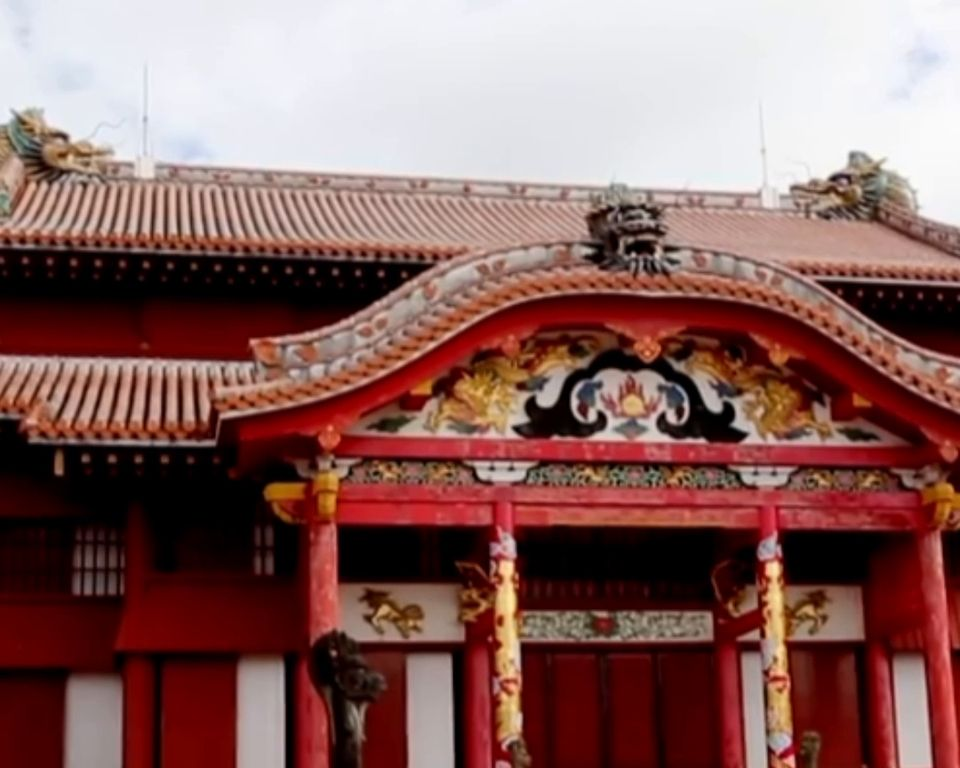
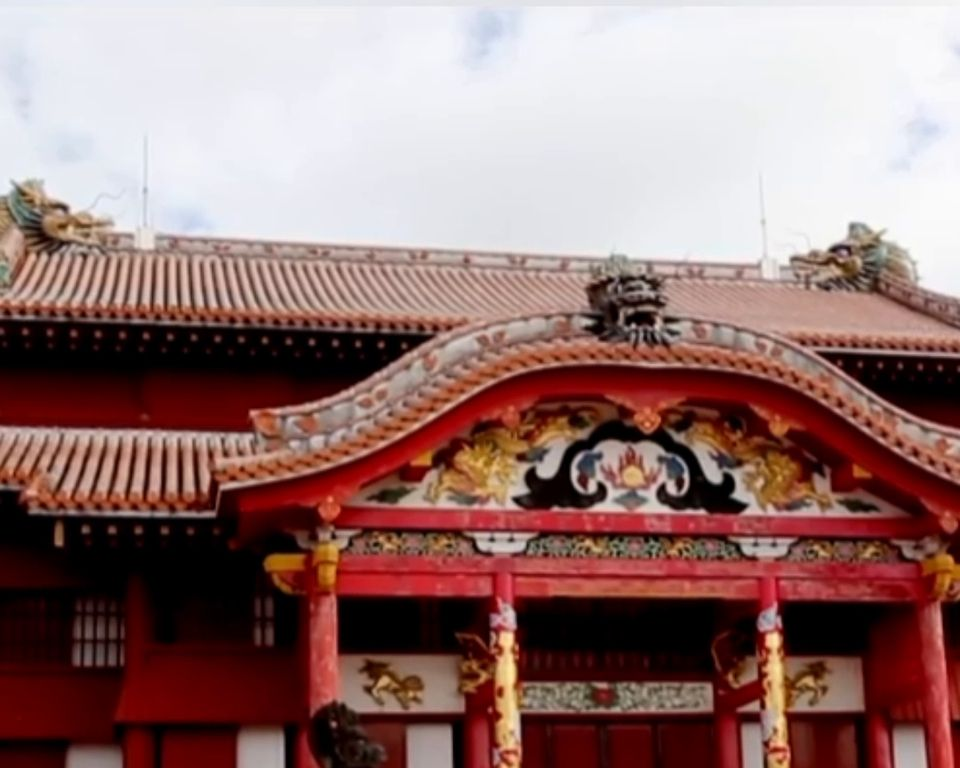
Live : la carte reste en plein jour (midi au Japon) pendant le live. Images du jeu : 15 images recadrées depuis la même image de la vidéo pour bien montrer le lieu (robot de Ghibli, torii de Hakone, jizō d'Osorezan, mare rouge de Beppu…).

diff --git a/site/ambiance.js b/site/ambiance.js
@@ -85,7 +85,9 @@ const dateJapon = (annee, mois, jour, heure, minute) => new Date(Date.UTC(annee,
 /** Le moment fixé par l'adresse pour les essais (?heure=21:30, ?date=2026-04-05, ?mois=4), sinon maintenant. */
 function lireMoment() {
   const p = new URLSearchParams(location.search);
-  const heure = p.get('heure')?.match(/^(\d{1,2})[:h.]?(\d{2})?$/);
+  // Le live (…/?live, live.js) est toujours en plein jour, midi au Japon : on voit mieux la carte (le propriétaire,
+  // 2026-11-23). La saison et les décorations du jour restent.
+  const heure = (p.get('heure') || (p.has('live') ? '12:00' : null))?.match(/^(\d{1,2})[:h.]?(\d{2})?$/);
   const date = p.get('date')?.match(/^(\d{4})-(\d{2})-(\d{2})$/);
   const mois = Number(p.get('mois'));
   return {

diff --git a/instructions/carte.md b/instructions/carte.md
@@ -32,6 +32,11 @@ Everything about the map itself: the site in `site/` (but the 3D walk, `site/bal
 - `python outils/couvertures_montage.py`: since 2026-10-20 TikTok gives no cover any more (oEmbed has no `thumbnail_url`, its embed page answers 429), so new places had a blank card. A TikTok cover is just one frame of the video, centre-cropped to 3:4 across the full width (checked: Ena Gorge's is the frame at 14 s of the owner's file, Naegi's at 15 s; the owner picks it in the app, mid-ranked on any measure, so it can't be guessed). For each place without a cover, the script finds its video in the owner's montage folder (`VIDEOS_LIEUX`, as `tourner.py`; `.mp4`/`.mov`; same name as `Nom (EN)` without accents, case or punctuation, else the only file name contained in the other, among files no other place claims: recent files are named like the Sheet, half of the old ones are not), picks the best frame after the first 4.5 s (Google Earth dive) by sharpness, colourfulness, exposure and stillness, leaving out shots whose colour histogram is far from the rest of the video (`A_PART`: Lake Kagami's video has a Mount Fuji shot that scored first), saves it like a TikTok cover (540 × 720) and notes it in `site/data/couvertures-montage.json`. By hand: `"Lake Kagami=31.5"` (that frame), `"Udo Inari Shrine=Inari shrine.mp4@12"` (that file); a contact sheet of the 6 best frames goes to the system temp folder; then commit and push. Needs Pillow, numpy and ffmpeg (imageio-ffmpeg here).
   - **Automatic (asked by the owner on 2026-10-20).** The videos are only on this PC, so a Windows scheduled task, **« Vignettes carte Japon »** (current user, at logon and every 30 min, `pythonw`, no window), runs `couvertures_montage.py --publier` in a separate clone, `D:\Business\Claude Code\Maps Japon - vignettes auto\depot` (blobless clone, marked by `.git/vignettes-auto`: `--publier` refuses to run elsewhere, because it resets the clone to `origin/main` first). It refreshes the backup CSVs, makes the missing covers (skipping a video modified in the last 10 min: still exporting) and the ones the owner asks for in `Vignettes.txt` in the montage folder (`Name = seconds` or `Name = file @ seconds`; marked `main` in the JSON, applied once, never replaced by the nightly TikTok retry), commits « Vignettes : … », pushes (on rejection: fetch, rebase, push again) and shows a Windows notification. A recent place (video under 14 days) with no matching file gets one notification. Log: `journal-vignettes.txt` beside the clone; notified places: `etat-vignettes.json`. **Never put files the task needs under `AppData`:** the Claude desktop app is a packaged (MSIX) app, so what its tools write under `AppData` goes to the package's private copy, invisible to Task Scheduler (the first clone in `%LOCALAPPDATA%` gave 0x8007010B, then exit 2), and `imageio-ffmpeg` had been pip-installed there too (it was reinstalled for the real user from a one-off scheduled task). D: is not redirected. To test what the task sees, register a throwaway task running a diagnostic script, then unregister it. Tested against a local bare remote (missing cover, `Vignettes.txt`, a concurrent push). The clone updates its own script at each pass. To stop it: `Unregister-ScheduledTask "Vignettes carte Japon"`. **A pass cut off mid-git leaves a lock.** From 2026-11-13 13:22 to 2026-11-19 a stale `.git/index.lock` in the clone (a pass stopped dead, PC shut down) made every pass fail (« index.lock: File exists ») without a word, so the videos of that week got no cover and no game image; the owner noticed on a card. Since then `retirer_verrous` deletes any `.git/*.lock` or `.git/refs/**/*.lock` older than 10 minutes before starting (safe: the task is `IgnoreNew`, never two passes at once, and Task Scheduler stops a pass after 20 minutes), and when passes have failed for over 3 hours a notification says so, once per outage (`panne`, `panneSignalee` in `etat-vignettes.json`).
   - **Game images, automatic too (asked by the owner on 2026-11-09: « automatiser ça à chaque fois que je poste une nouvelle vidéo », so that every place is in the game and the daily challenge).** After the covers, the same task gives every place on the map whose game image is not yet a frame of its video such a frame (`images_du_jeu`; a Sheet photo stays on the place's card, `avantTableau` puts the frame first in the game). `cadres_du_jeu` reads the video at 2 fps past the dive, drops shots off the video's palette (`images_valables`, as for covers) and scores each frame with `note` in three 5:4 windows (1080 × 864, top at 400, 550 or 700 of 1920: the name label of the recent videos sits at top left from start to end and ends near y = 320). The 8 best, 2 s apart, go through Windows' built-in OCR (WinRT through PowerShell, `OCR_WINDOWS`, `en-US`, nothing to install; it also works from the scheduled task): the first with no word of 4 letters or more wins (on textures the OCR invents « Wm » or « .41 »). At full size the OCR does not read big titles: `versions_a_lire` also gives it the frame at half size and its white alone (11 titles it had missed were all read, no false alarm on 12 clean frames). It reads the label and the titles typed in the older videos, but not Japanese (no `ja-JP` OCR pack on this PC), so a kanji sign can stay in the frame. It judges looks, not meaning: on 24 known videos every pick was usable, but Takeda Castle got a fine stone wall rather than a wide view. Saved as `photos/jeu/<video id>.jpg` (960 px), noted `{fichier, maVideo: true, ajoute: <UTC date>}` in `photos-jeu.json`; the notification reads « image ajoutée au jeu ». If `photos_jeu.py` got there first (PC off), its Wikidata photo (`wikidata: true`) is replaced at the next pass, like any image not marked `maVideo` once the place's video is found. An entry marked `maVideo` is never touched: to make one again, delete its JSON entry and its JPEG in the repo. Tested from a throwaway scheduled task on a clone wired to a local bare repo: a place with no image, a provisional one, a second pass that does nothing (the session's `preparer_essai.py`).
+    - **Re-centred by hand, 2026-11-23.** The owner, watching the live, found « pas mal d'images mal centrées » where the place could not be seen well. The fixed windows (400, 550 or 700) often cut the subject: the Ghibli robot's head, Osorezan's jizō, Hakone's torii, Beppu's red pond…
+    - **How.** Each `maVideo` frame was extracted whole (9:16, at the instant noted in `fichier`), and its current window was found by comparing images. Contact sheets of all 168 showed the window in red. For the bad ones, windows were tried at tops 0 to 1056, and 15 were re-cut from the same instant at a better top.
+    - **Checks.** The same OCR (`textes_lus`, `versions_a_lire`) found no word in any new window, while it read the label when it was in. The recent videos' label ends near y = 380, so windows above that are only safe in older videos without a label.
+    - **Recording.** The chosen top is noted as `haut` in `photos-jeu.json`; the site ignores it. A `maVideo` entry is never redone by the robot, so these stay.
+    - **Left as they were.** Echizen Daibutsu (its label is above the statue), Gujō Hachiman Castle (the castle is not in that frame) and Notsuke Peninsula (only sea).
 - `serveur/`: the multiplayer game server (Cloudflare Workers, see Multiplayer and friends). In that folder: `npm install` once, `npm run essai` runs it on this PC at `ws://127.0.0.1:8787` (the site served on localhost uses it automatically), `npm run envoyer` deploys it (`wrangler deploy`, after the owner's one-time `npx wrangler login`). Node.js LTS was installed with winget on 2026-10-09.
 
 ## Architecture
@@ -605,6 +610,7 @@ The owner wants daily lives of 1 to 1.5 h that run by themselves, without showin
 - **A round** (`manche`): a place from a shuffled bag (`tirer`: places with a game photo, `imageDe` as `jeu.js`, never twice before all have come, never the same prefecture twice in a row), its photo preloaded; `ENTREE` 2.4 s (the camera flies back to Japan, the card comes in), then `MANCHE` 30 s: the photo's blur goes from 18 px to 0.4 (on 1080) with `f^1.5`, the ring and seconds (red under 10 s, beating under 5, a tick per second), the region hint at 15 s left (`liveIndice`; Hokkaidō is a region alone, so its hint is « the far north », no outline). Then `REVELE` 15 s: the card with the photo, the other name in a vertical cartouche (wrapping to a second column when long), category · prefecture, « Found by » with medals and points, the live's top 5, « Next round in … »; the camera flies to the place (`volerVers`: zoom 11.3, pitch 58, 4.6 s, then a slow linear orbit; the flight's relief is preloaded during the round with `preparerVol` = `precharge.js` without a height hook). Every `MANCHES_PAR_VOYAGE` (5) rounds a **travel break** (`voyage`): 16 s of votes (one per viewer: their first message naming a prefecture; the top 3 as bars, the prefectures tinted by votes), then a random place in the winner (ties: the first to get there; no vote: a random one; a prefecture without a place: the nearest place to its centre, « No place in … yet »), 15 s there with « All my places are on the free 3D map: link in bio! ».
 - **Guesses** (`deviner`): one per viewer per round, their first message naming a prefecture (`prefectureDans`: Latin words without accents, from `PREFECTURES[].en` plus `VARIANTES` like tokio/kioto, then the Japanese names with or without 県/府/都, longest first so 東京都 is not 京都; « Mie » matches only as a whole word). Right: 10, 8, 6 points to the first three, then 4 (`POINTS`), « found it! » in teal in the feed. Wrong: its temperature from the place to the prefecture's centre (the area centroid of its largest polygon, computed from `prefectures.geojson`): over 600 km cold, 300 warm, 130 hot, else burning (`TEMPERATURES`, the challenge's colours), the prefecture painted that colour (`live-essais` fill layer, feature-state `temp` on the `live-prefectures` source with `promoteId: 'code'`, 0.62 opacity) and a line in the feed. The place dots are hidden while guessing and voting (`montrerLieux(false)` → `reperes.montrer`), so the colours read; all states are cleared at the reveal. The scores: `localStorage.liveScores` = `{ jour (local date), joueurs: { id: { nom, points, trouves } } }`, kept through a reload, reset the next day.
 - **TikFinity** (free, its Windows desktop app must run on the same PC; checked on its site 2026-11-22): a WebSocket at `ws://localhost:21213/` that forwards every event of the owner's live as `{ event: 'chat' | 'gift' | 'share' | 'follow' | 'like' | 'roomUser' | 'subscribe', data }`, `data` in TikTok-Live-Connector's format. `qui(d)` reads both its old flat fields (`uniqueId`, `nickname`, `comment`) and the newer nested ones (`d.user.uniqueId`, `d.giftDetails.giftName`). A streak gift sends an event per repeat: only the one with `repeatEnd` counts (`giftType` 1). Follow, share and gift show a thank-you (`remercier`, queued, 3.8 s each); a gift during a round shows the hint at once (« thanks to … »). `brancherChat` reconnects (1.5 s × tries, at most 10 s). An https page may open `ws://localhost` (localhost is a secure context); not yet checked inside LIVE Studio's link source, nor whether Chrome's Local Network Access asks there: if the status stays red, open the page from the PC itself (the local server) or capture an Edge window.
+- **Always daytime** (the owner, 2026-11-23: « que la carte soit tout le temps de jour pour le jeu », to see it better). `lireMoment` in `ambiance.js` treats `?live` as `?heure=12:00`: noon in Japan, today's date, frozen for the whole live. The season and the day's decorations (Christmas…) stay. `?heure=` still overrides it.
 - **Sound:** the map's music player tracks without voice (`data/musique.json`, CC BY 4.0, credited under the title: « ♪ title · author (CC BY 4.0) »), volume 0.3, shuffled; little Web Audio sounds made here (`son`: tick, guess blip pitched by temperature, at most one per 120 ms, found chime, hint, thank-you, a soft gong at the reveal). A browser that refuses sound without a click gets it at the first click or key. Whether LIVE Studio's link source carries the page's audio is not yet known.
 - **Fake viewers** (`?essai`, `fauxSpectateurs`): 14 invented handles guess every 0.35–2 s (right more often as time runs, else a neighbour within 250 km or anywhere; sometimes « is it X? » or the Japanese name), vote during breaks, chat otherwise, and now and then follow or send roses.
 - Texts: `live*` in `TEXTES` (en, fr, ja), plus the game's `jeuPhoto`/`jeuPhotoLibre` for Commons credits.

diff --git a/LISEZMOI.md b/LISEZMOI.md
@@ -396,6 +396,7 @@ Un live où **ce sont les spectateurs qui jouent** dans le chat. Il marche sur T
   3. Passer en LIVE, puis dans TikFinity cliquer **« Connect to TikTok LIVE »**. En bas à droite de la page, un petit point vert « chat connected » dit que les commentaires arrivent (il est caché par les boutons de TikTok pour les spectateurs).
 - **Pour essayer sans être en live :** https://map.randomjapanplace.com/?live&essai fait jouer de faux spectateurs (…/?live&youtube&essai pour l'écran YouTube).
 - **En français :** …/?live=fr (en japonais : …/?live=ja). Sans rien, c'est en anglais, comme tes vidéos.
+- La carte du live est **toujours en plein jour** (midi au Japon), même la nuit là-bas : on la voit mieux. La saison et les décorations du jour restent.
 - Le classement du jour reste dans le navigateur qui fait le live : si la page se recharge, il n'est pas perdu. Il repart à zéro le lendemain.
 
 ### Le live YouTube (tout seul)
